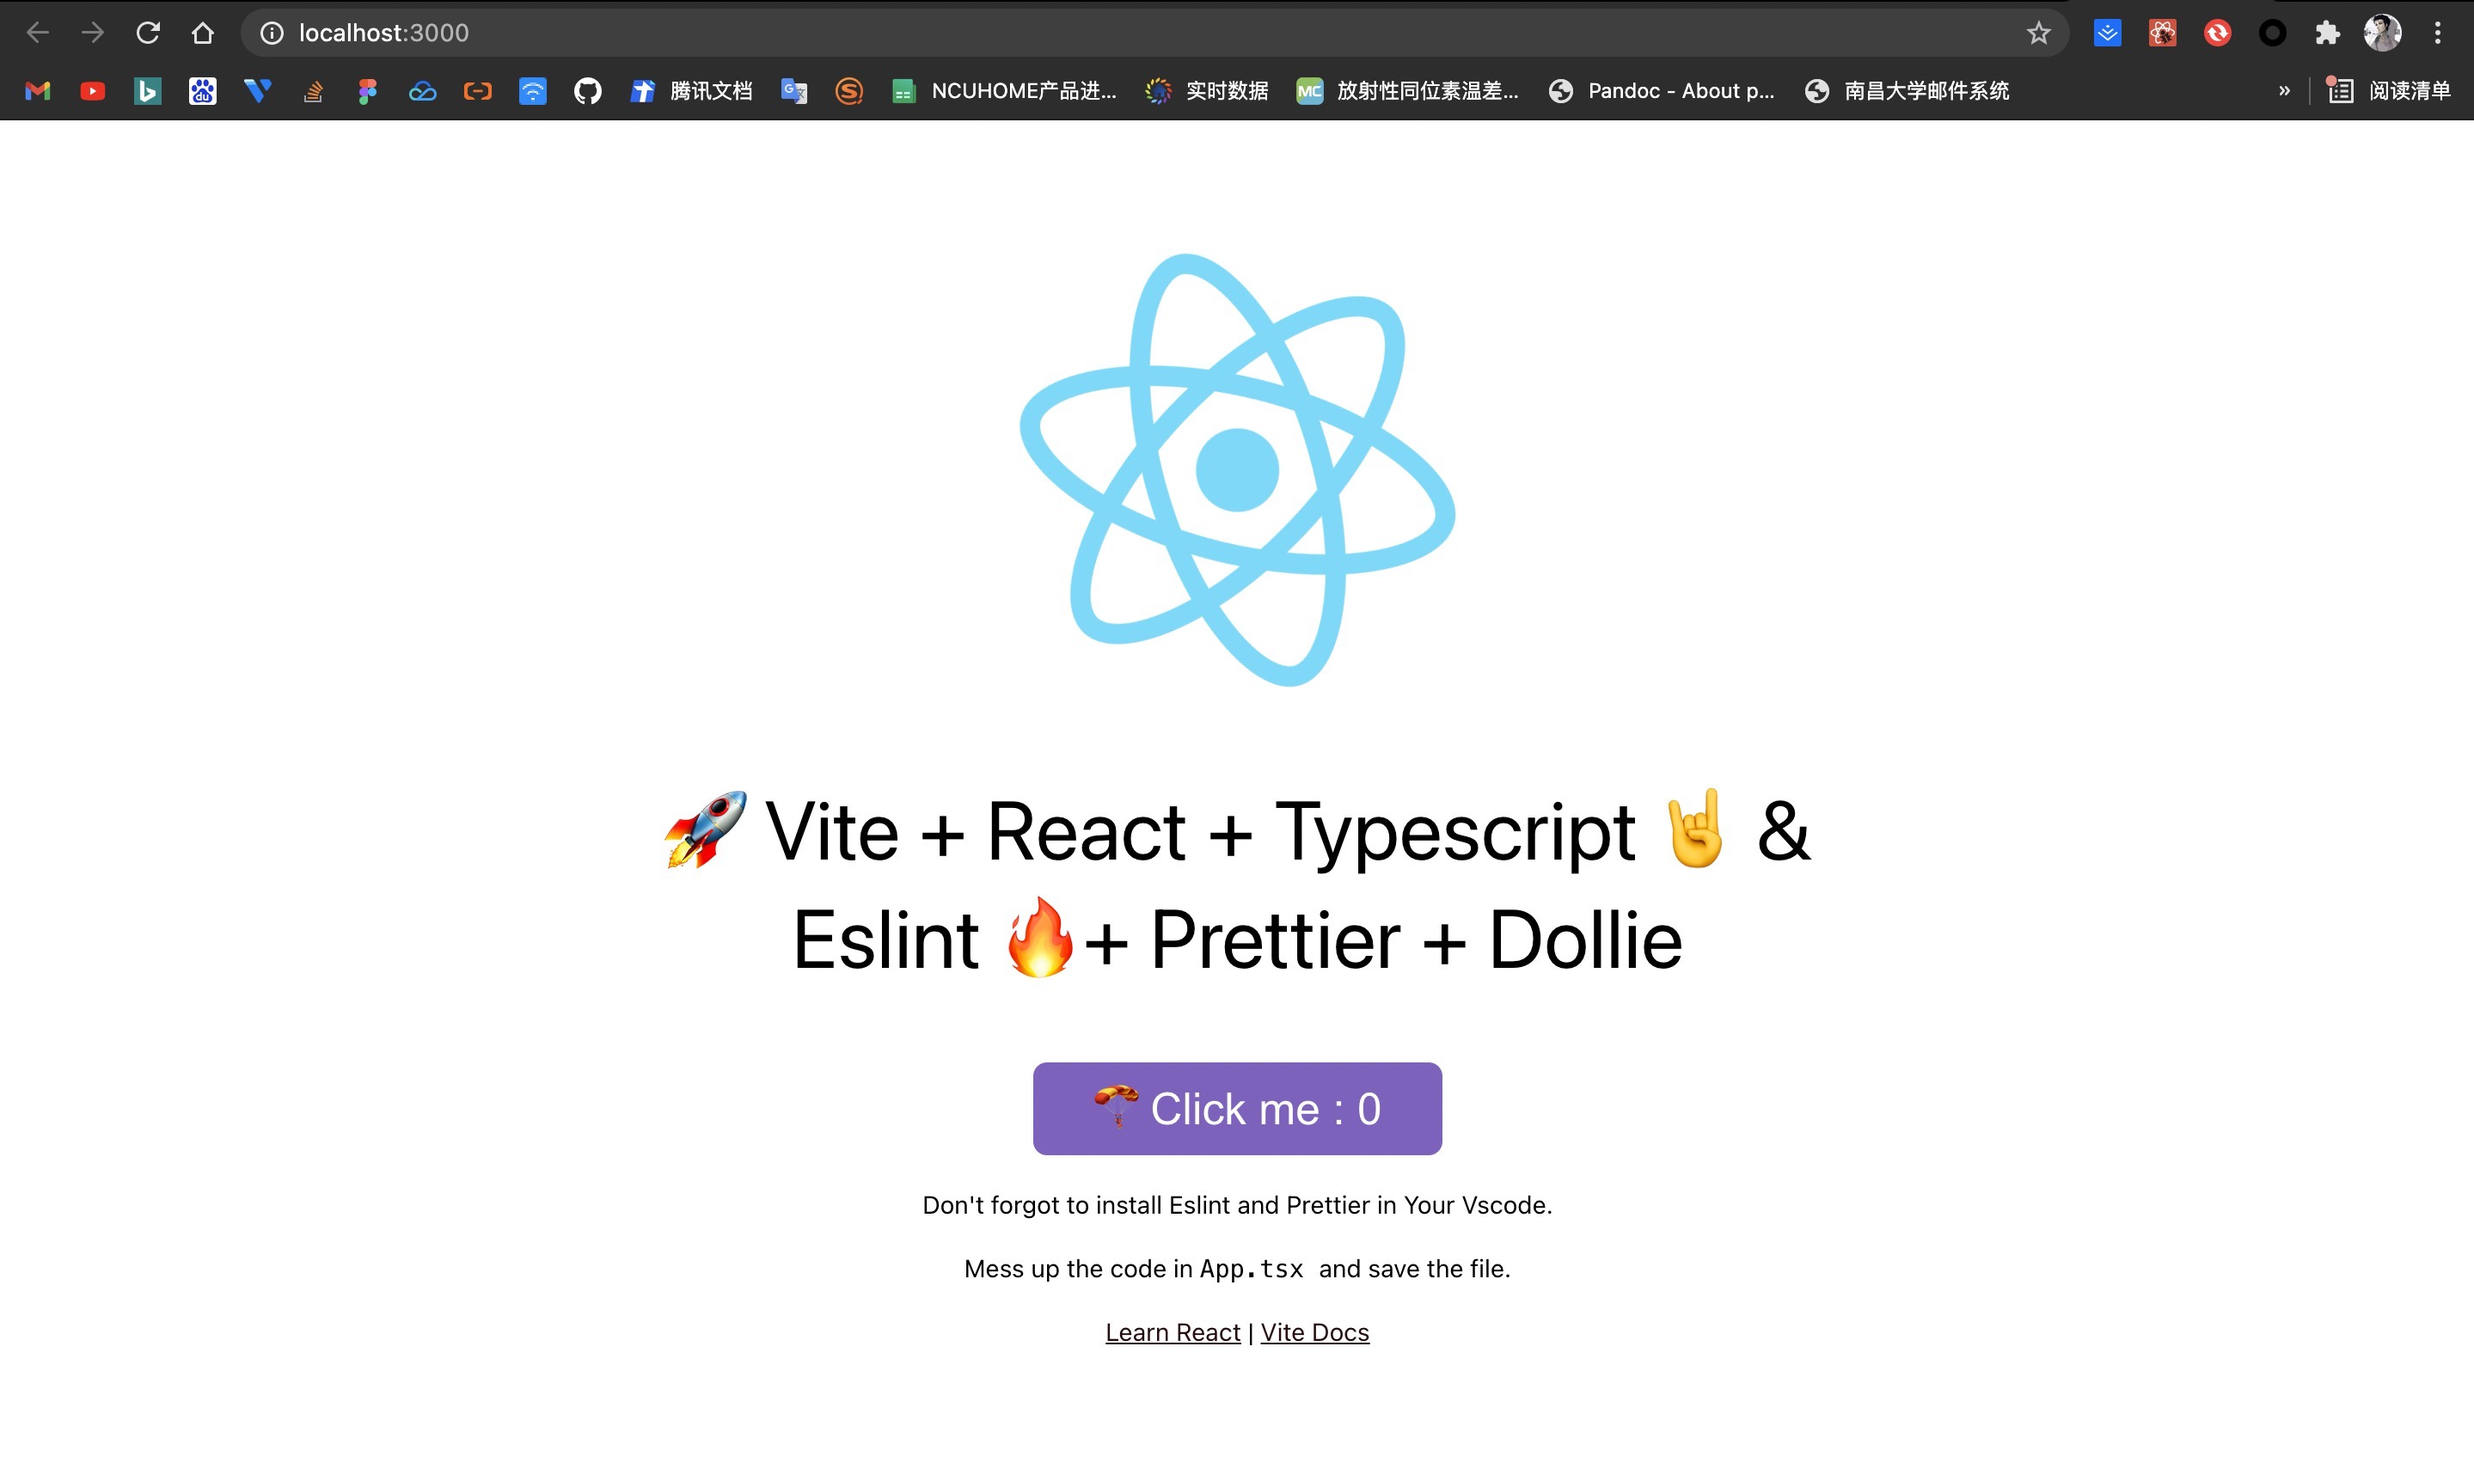
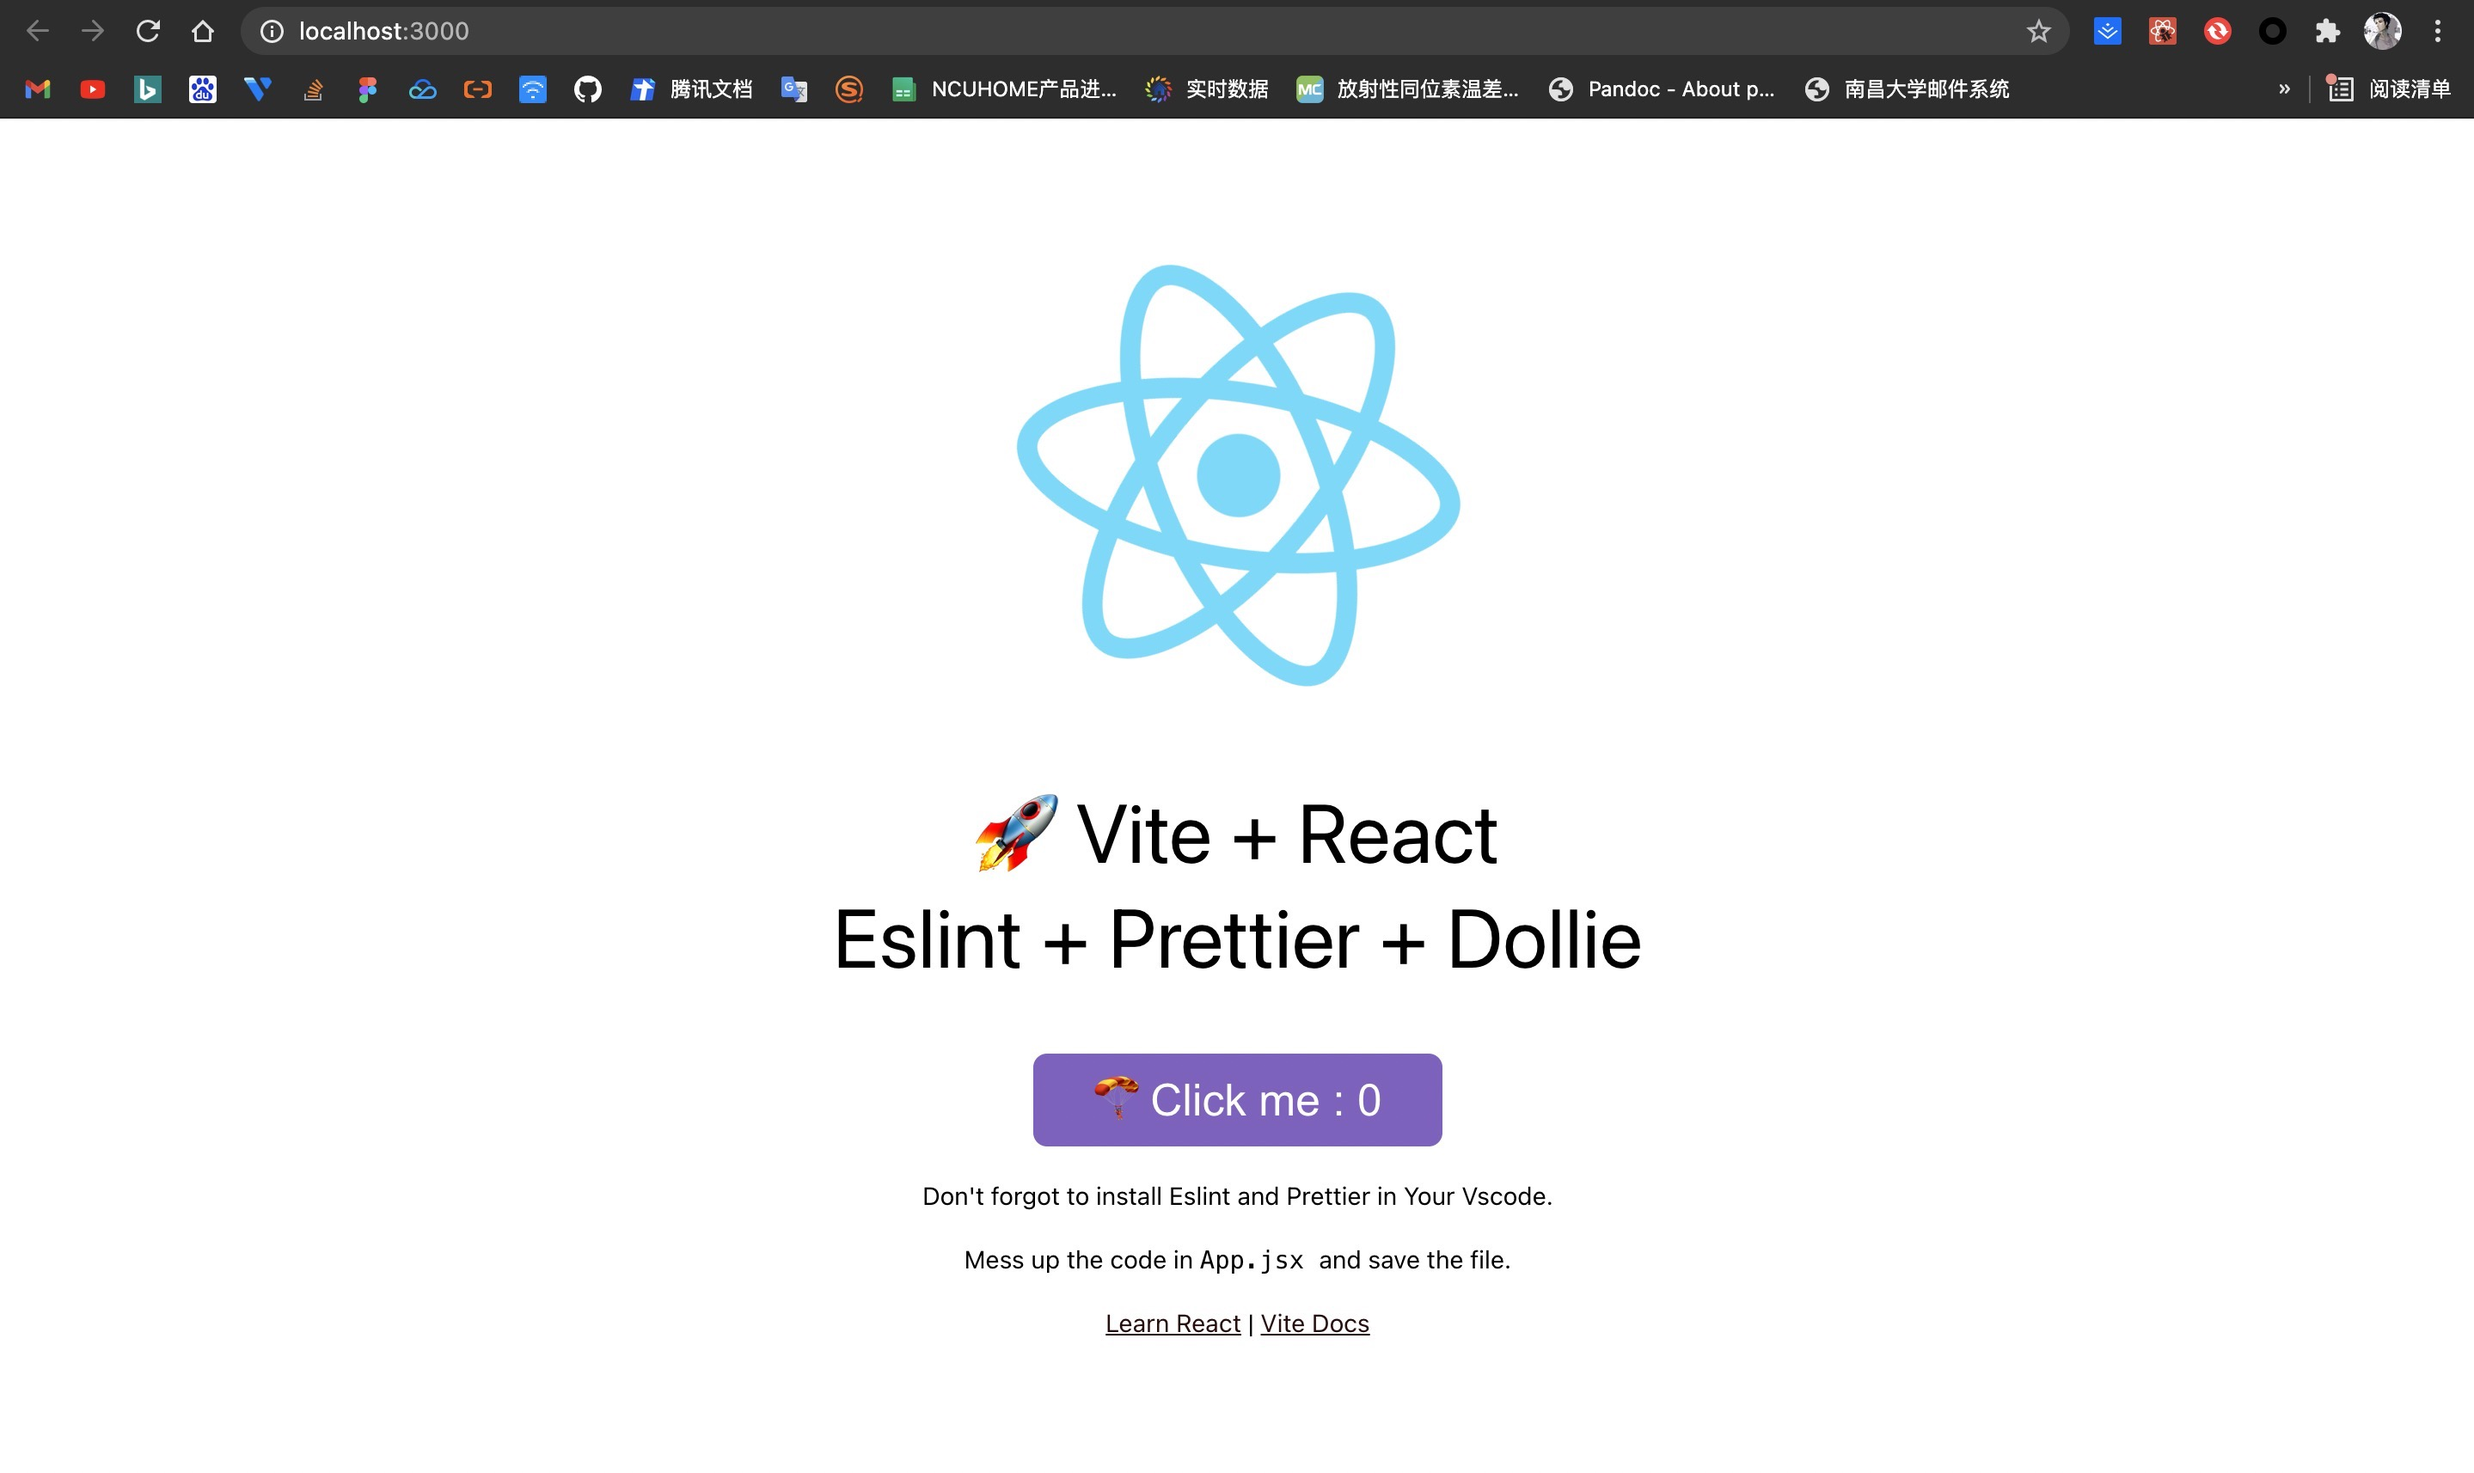
docs: delete ts text

diff --git a/src/App.jsx b/src/App.jsx
@@ -12,8 +12,9 @@ function App() {
       <header className="App-header">
         <img src={logo} className="App-logo" alt="logo" />
         <p className="header">
-          🚀 Vite + React + Typescript 🤘 & <br />
-          Eslint 🔥+ Prettier + Dollie
+          🚀 Vite + React
+          <br />
+          Eslint + Prettier + Dollie
         </p>
 
         <div className="body">
@@ -24,7 +25,7 @@ function App() {
           <p> Don&apos;t forgot to install Eslint and Prettier in Your Vscode.</p>
 
           <p>
-            Mess up the code in <code>App.tsx </code> and save the file.
+            Mess up the code in <code>App.jsx </code> and save the file.
           </p>
           <p>
             <a

diff --git a/README.md b/README.md
@@ -1,4 +1,4 @@
-# Vite + React + Typescript + Eslint + Prettier + Dollie
+# Vite + React + Eslint + Prettier + Dollie
 
 The Starter base on [TheSwordBreaker/vite-reactts-eslint-prettier](https://github.com/TheSwordBreaker/vite-reactts-eslint-prettier/).
 
@@ -6,8 +6,6 @@ A starter for React with Typescript with the fast Vite and all static code testi
 
 We provide [Dollie](https://github.com/dolliejs/dollie-core) for quickly generate a whole project.
 
-![Vite + React + Typescript + Eslint + Prettier](/resources/screenshot.png)
+![Vite + React + Eslint + Prettier](/resources/screenshot.png)
 
-I found out about Vite and I wanted to have a boilerplate for the technologies that I use. You can find more about these in the following links: [Vite](https://github.com/vitejs/vite), [React](https://reactjs.org/), [Typescript](https://www.typescriptlang.org/), [Eslint](https://eslint.org/), [Prettier](https://prettier.io/), [Dollie](https://github.com/dolliejs/dollie-core).
-
-
+I found out about Vite and I wanted to have a boilerplate for the technologies that I use. You can find more about these in the following links: [Vite](https://github.com/vitejs/vite), [React](https://reactjs.org/), [Eslint](https://eslint.org/), [Prettier](https://prettier.io/), [Dollie](https://github.com/dolliejs/dollie-core).
